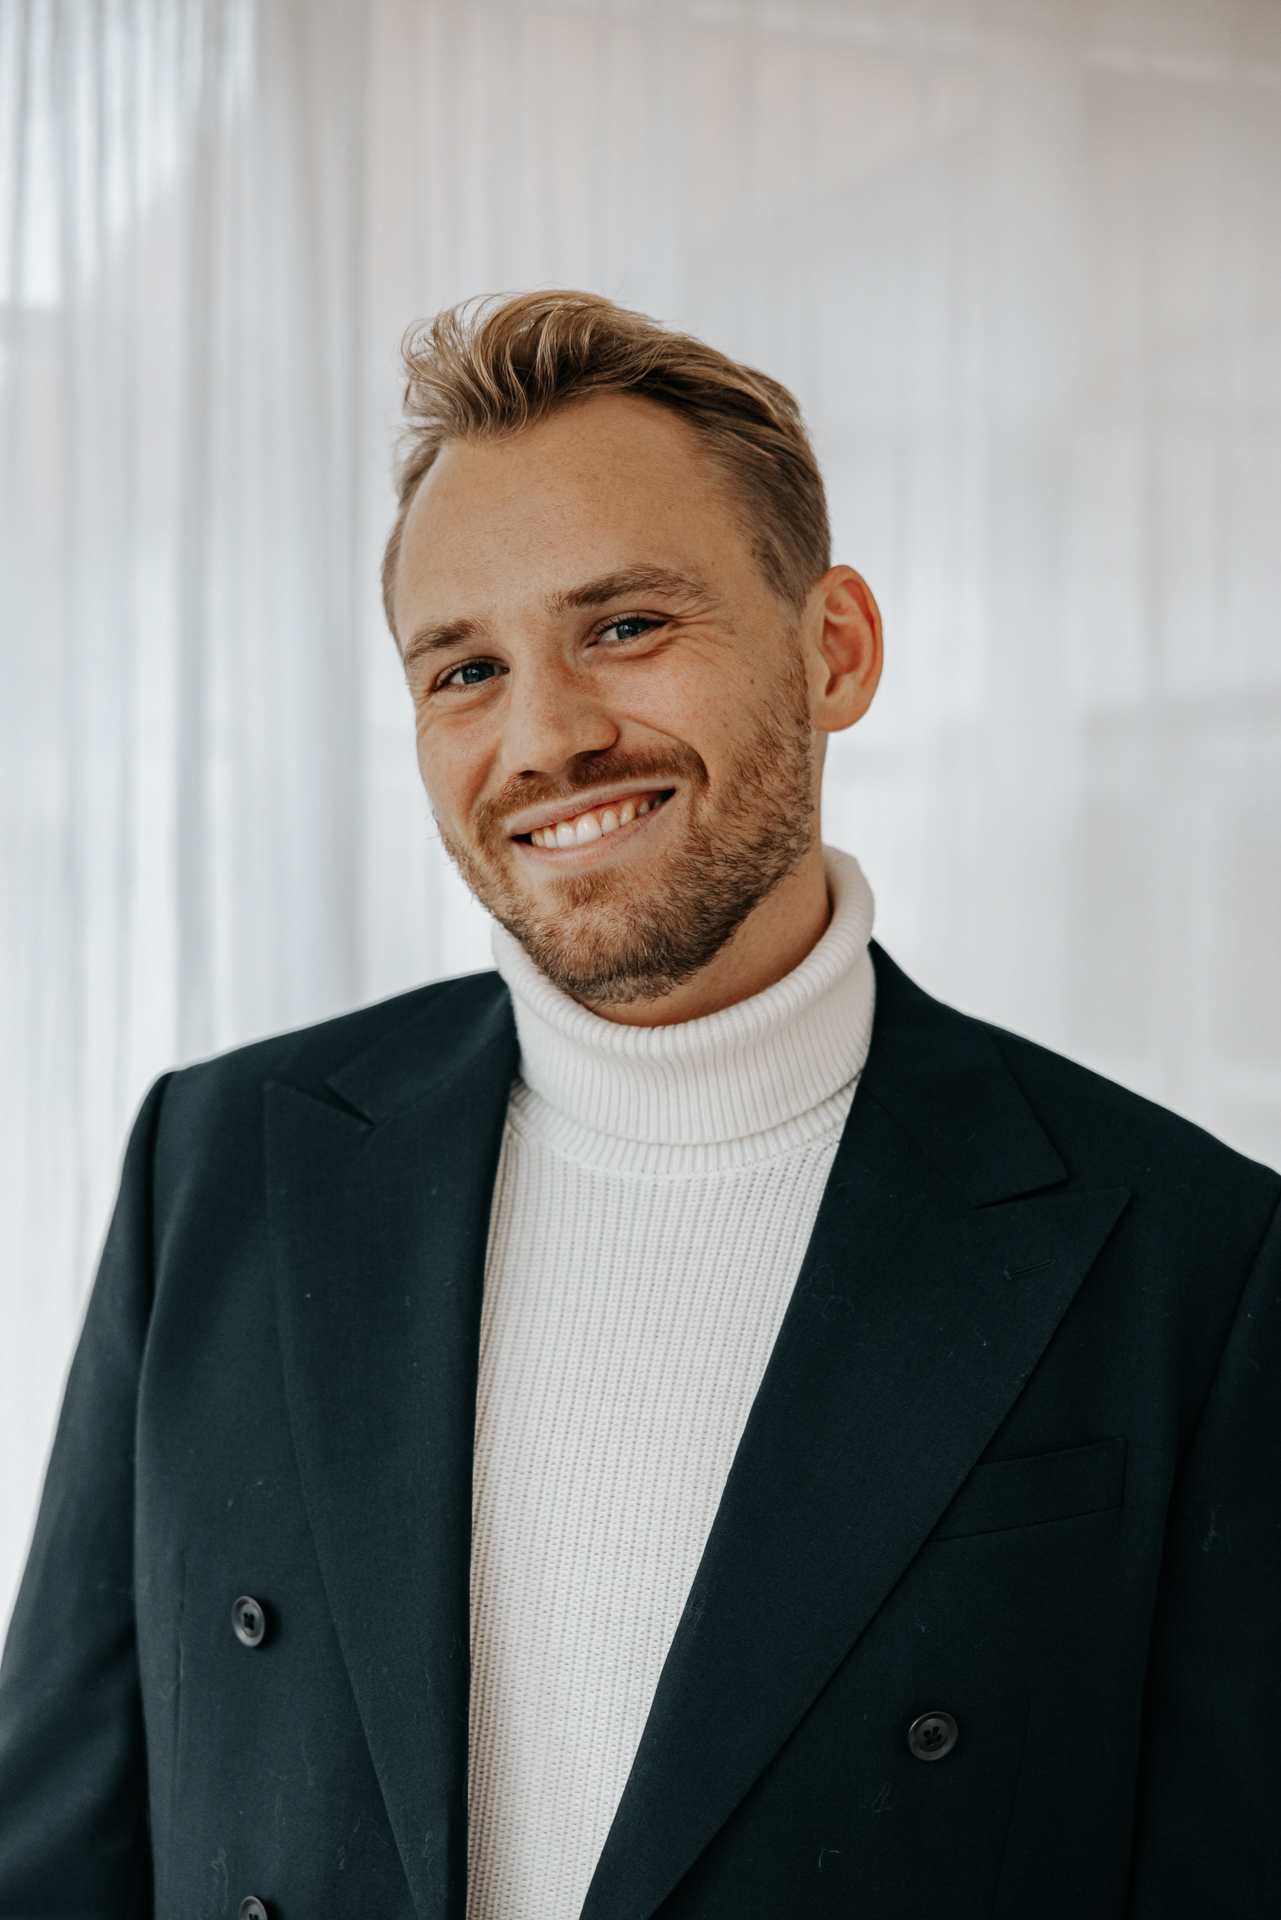
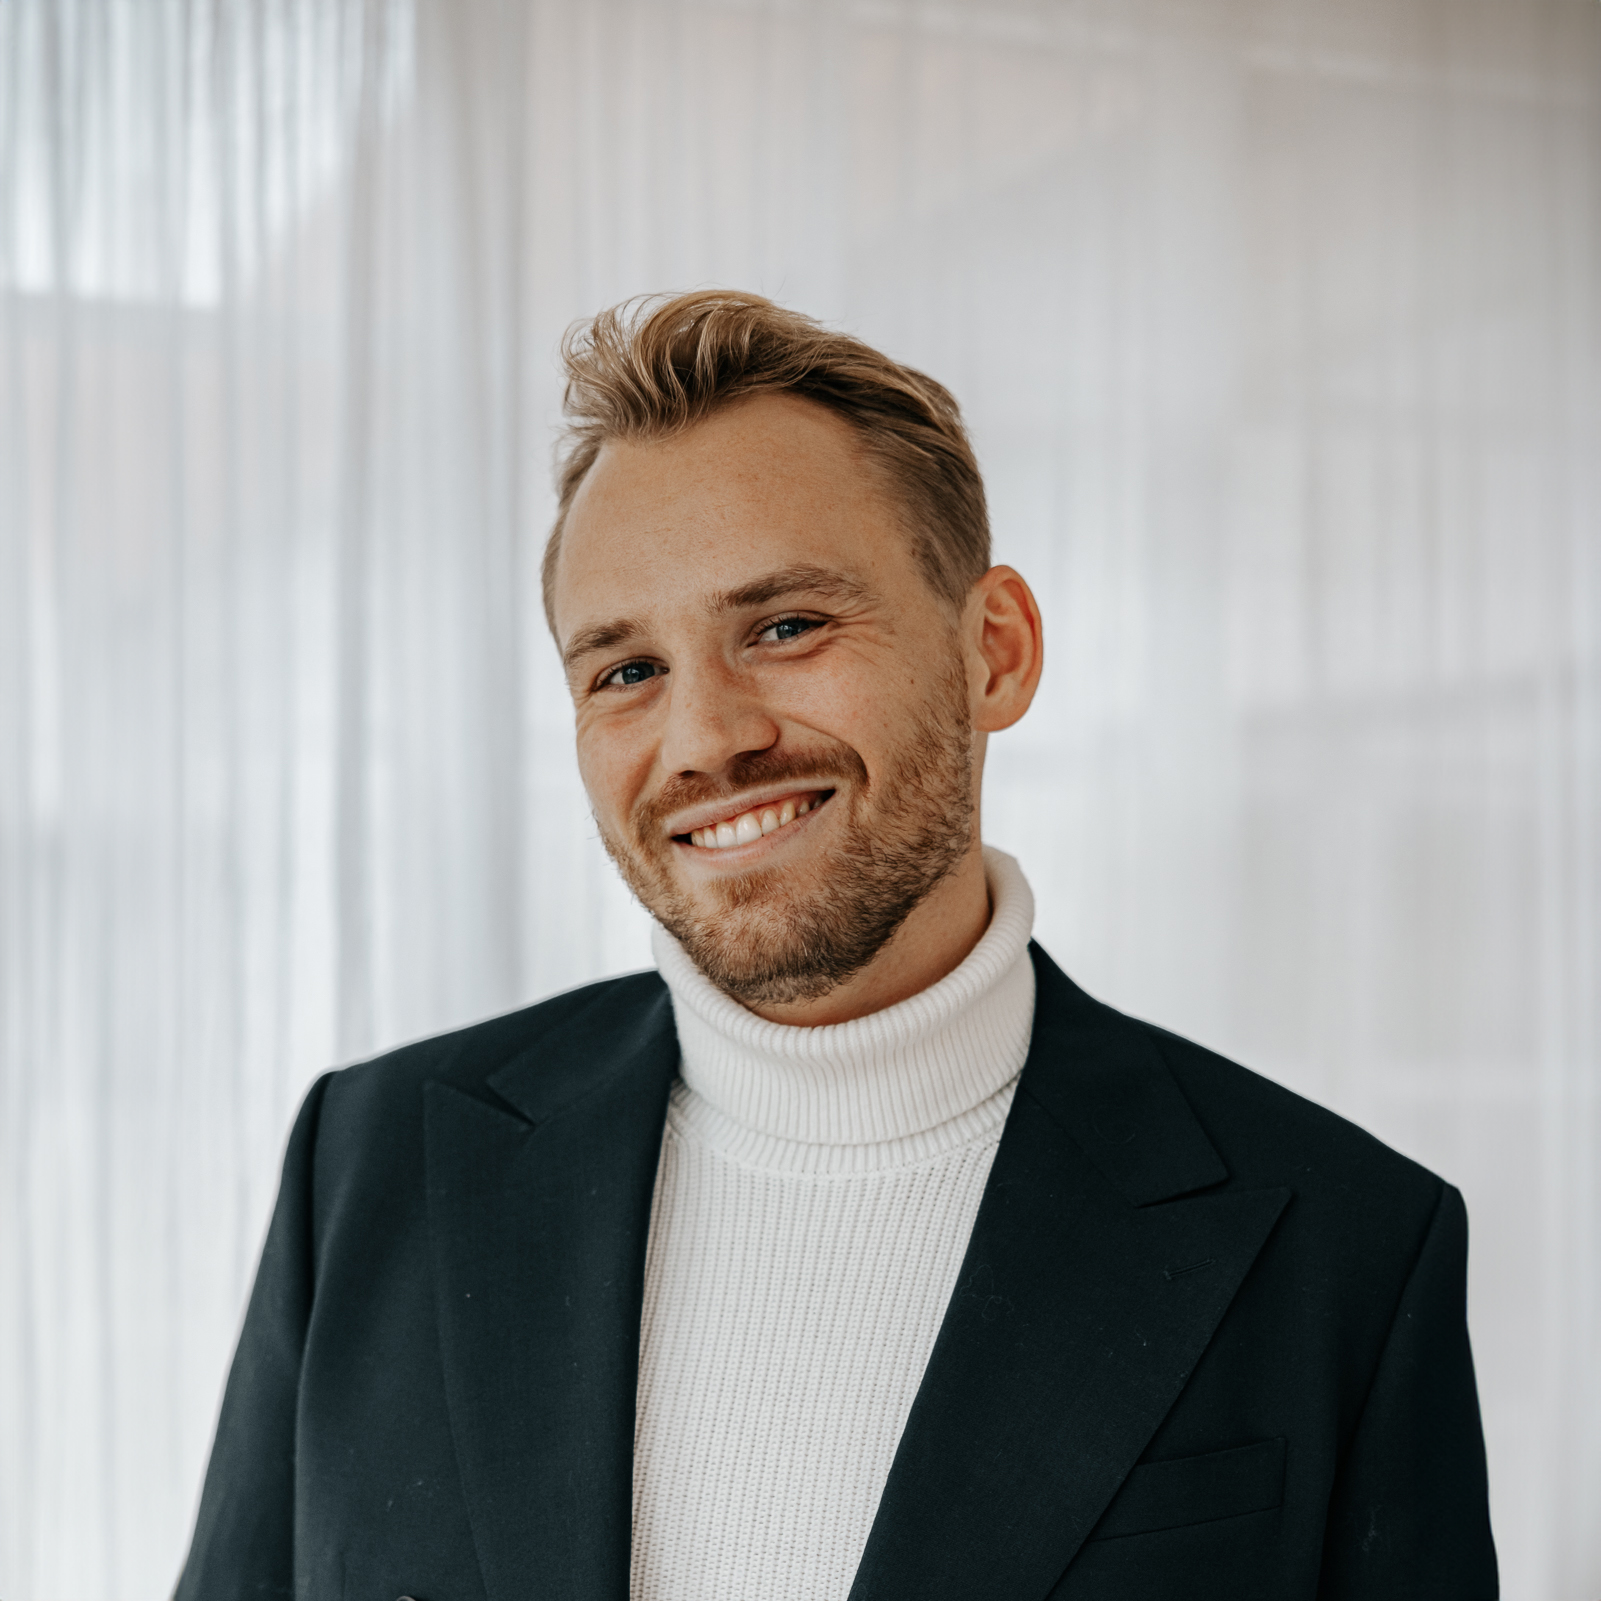
Update design and function

diff --git a/styles.css b/styles.css
@@ -4,7 +4,6 @@ body {
     margin: 0;
     padding: 0;
 }
-
 header {
     display: flex;
     padding: 24px 42px;
@@ -13,17 +12,56 @@ header {
     align-content: center;
     align-self: stretch;
     flex-wrap: wrap;
-    font-family:Impact, Haettenschweiler, 'Arial Narrow Bold', sans-serif ;
-    font-weight: 300;
+    font-family: "futura-pt", sans-serif;
+    font-weight: 800;
+    font-style:normal;
 }
+#headerBtn{
+    display: flex;
+    background: none;
+	color: inherit;
+	border: none;
+	padding: 0;
+	font: inherit;
+	cursor: pointer;
+	outline: inherit;
+}
+
 #headBtn{
 color: var(--Black, #2D2D2D);
 /* Body text */
-font-family: Impact, Haettenschweiler, 'Arial Narrow Bold', sans-serif;
 font-size: 17px;
 font-style: normal;
 font-weight: 400;
+transition: 0.3s;
+background: none;
+color: inherit;
+border: none;
+padding: 0;
+font: inherit;
+cursor: pointer;
+outline: inherit;
+transition: .3s;
 }
+}
+#secodaryBtn{
+    background: none;
+	color: inherit;
+	border: none;
+	padding: 0;
+	font: inherit;
+	cursor: pointer;
+	outline: inherit;
+    transition: .3s;
+}
+#secodaryBtn:hover {
+font-size: larger;
+}
+
+#headBtn:hover{
+font-size: 18px;
+}
+
 main1{
     display: flex;
     padding: 42px 24px;
@@ -33,15 +71,97 @@ main1{
     gap: 0px 68px;
     align-self: stretch;
     flex-wrap: wrap;
+    align-items: flex-end;
 }
 img{
 opacity: 60%;
 max-width: 500px;
 max-height: 500px;
 }
-mainDiv{
-    padding: 100px;
-    border: dotted 1px;
-    max-width: 500px;
-    max-height: 500px;
+
+#mainDiv{
+
+    display: flex;
+padding: 42px 24px;
+justify-content: center;
+align-items: center;
+align-content: center;
+gap: 0px 68px;
+align-self: stretch;
+flex-wrap:nowrap;
+flex-direction: row;
 }
+contentDiv{
+    max-width: 200px;
+}
+
+#mainHead{
+font-size: 20px;
+font-style: normal;
+font-weight: 600;
+line-height: 30px; /* 150% */
+}
+#mainHead2{
+font-size: 68px;
+font-style: normal;
+font-weight: 600;
+line-height: normal;
+}
+#mainHead3{
+    font-size: 17px;
+font-style: normal;
+font-weight: 400;
+line-height: 27px; /* 158.824% */
+    max-width: 800px;
+}
+
+#mainDivBtn {
+    appearance: none;
+    background-color: transparent;
+    border: 0.125em solid #1A1A1A;
+    border-radius: 0.9375em;
+    box-sizing: border-box;
+    color: #3B3B3B;
+    cursor: pointer;
+    display: inline-block;
+    font-family: Roobert,-apple-system,BlinkMacSystemFont,"Segoe UI",Helvetica,Arial,sans-serif,"Apple Color Emoji","Segoe UI Emoji","Segoe UI Symbol";
+    font-size: 16px;
+    font-weight: 600;
+    line-height: normal;
+    margin: 0;
+    min-height: 3.75em;
+    min-width: 0;
+    outline: none;
+    padding: 1em 2.3em;
+    text-align: center;
+    text-decoration: none;
+    transition: all 300ms cubic-bezier(.23, 1, 0.32, 1);
+    user-select: none;
+    -webkit-user-select: none;
+    touch-action: manipulation;
+    will-change: transform;
+   }
+   
+   #mainDivBtn:disabled {
+    pointer-events: none;
+   }
+   
+   #mainDivBtn:hover {
+    color: #fff;
+    background-color: #1A1A1A;
+    box-shadow: rgba(0, 0, 0, 0.25) 0 8px 15px;
+    transform: translateY(-2px);
+   }
+   
+   #mainDivBtn:active {
+    box-shadow: none;
+    transform: translateY(0);
+   }
+   #logoBar{
+    display: flex;
+padding: 42px 68px;
+justify-content: center;
+align-items: center;
+gap: 10px;
+flex: 1 0 0;
+   }

diff --git a/index.html b/index.html
@@ -2,27 +2,54 @@
 <html lang="en">
 
 <head>
+    <!-- Google Tag Manager -->
+<script>(function(w,d,s,l,i){w[l]=w[l]||[];w[l].push({'gtm.start':
+    new Date().getTime(),event:'gtm.js'});var f=d.getElementsByTagName(s)[0],
+    j=d.createElement(s),dl=l!='dataLayer'?'&l='+l:'';j.async=true;j.src=
+    'https://www.googletagmanager.com/gtm.js?id='+i+dl;f.parentNode.insertBefore(j,f);
+    })(window,document,'script','dataLayer','GTM-MZNGMKC4');</script>
+    <!-- End Google Tag Manager -->
+
     <meta charset="UTF-8">
     <meta name="viewport" content="width=device-width, initial-scale=1.0">
     <title>Simon Jeppsson´s portfolio</title>
     <link rel="stylesheet" href="styles.css">
+    <link rel="stylesheet" href="https://use.typekit.net/cew2yro.css">
+    <link rel="stylesheet" href="https://use.typekit.net/cew2yro.css">
+
+    
 </head>
 
 <body>
+    <!-- Google Tag Manager (noscript) -->
+<noscript><iframe src="https://www.googletagmanager.com/ns.html?id=GTM-MZNGMKC4"
+height="0" width="0" style="display:none;visibility:hidden"></iframe></noscript>
+<!-- End Google Tag Manager (noscript) -->
+
     <header>
-        <h1>Simon Jeppsson</h1>
-        <h2 id="headBtn">About me</h2>
+        <button id="headerBtn">Simon Jeppsson</button>
+        <button id="mainDivBtn" href = "mailto: simon1jeppsson@gmail.com">Contact</button>
     </header>
     <main1> 
-        <mainDiv>
-            <mainHead>Ux-Designer</mainHead>
-            <
-
-        </mainDiv>
-        <picDiv><img src="Media/231028_simon_jeppsson_0006.jpg" alt="Portrait">
-        </picDiv>
+       
+            <div id="mainDiv">
+            <div id="contentDiv">
+            <p id="mainHead">Illustrations | Reaserch | Programming | GUI | Interactivity  </p>
+            <p id="mainHead2">UX-Designer</p>
+            <p id="mainHead3">Hello, I'm Simon Jeppsson, a  UX designer currently studying at Malmö University. With a professional background in sales, I bring a unique perspective to my design approach, driven by a passion for ensuring that products not only meet user needs but also contribute to the overall profitability of a company. My focus lies in making things work seamlessly for customers, ultimately aiming to enhance user experiences and boost the success of businesses.</p>
+            <button id="mainDivBtn" href = "mailto: simon1jeppsson@gmail.com">Lets talk!</button>
+            </div>
+            <picDiv><img src="Media/231028_simon_jeppsson_0005.jpg" alt="Portrait">
+            </picDiv>
+        </div>
     </main1>
+
+    <div id="logoBar">
+        <logo1><img src="Media/MAU_SV_hori_BLACK.png" alt="Portrait">
+        </logo1>
+    </div>
     
+    <div id="projectDiv"></div>
 
 </body>
 

diff --git a/About me.html b/About me.html
@@ -1,0 +1,33 @@
+<!DOCTYPE html>
+<html lang="en">
+
+<head>
+    <meta charset="UTF-8">
+    <meta name="viewport" content="width=device-width, initial-scale=1.0">
+    <title>Simon Jeppsson´s portfolio</title>
+    <link rel="stylesheet" href="styles.css">
+    <link rel="stylesheet" href="https://use.typekit.net/cew2yro.css">
+    <link rel="stylesheet" href="https://use.typekit.net/cew2yro.css">
+
+    
+</head>
+
+<body>
+    <header>
+        <h1 onclick="index.href = 'www.Simonjeppsson.com';" >Simon Jeppsson</h1>
+        <h2 id="headBtn">About me</h2>
+    </header>
+    <main1> 
+        <mainDiv>
+            <mainHead>Ux-Designer</mainHead>
+            <btnDiv id="secodaryBtn">Contact</btnDiv>
+
+        </mainDiv>
+        <picDiv><img src="Media/231028_simon_jeppsson_0005.jpg" alt="Portrait">
+        </picDiv>
+    </main1>
+    
+
+</body>
+
+</html>

diff --git a/contact.html b/contact.html
@@ -1,0 +1,33 @@
+<!DOCTYPE html>
+<html lang="en">
+
+<head>
+    <meta charset="UTF-8">
+    <meta name="viewport" content="width=device-width, initial-scale=1.0">
+    <title>Simon Jeppsson´s portfolio</title>
+    <link rel="stylesheet" href="styles.css">
+    <link rel="stylesheet" href="https://use.typekit.net/cew2yro.css">
+    <link rel="stylesheet" href="https://use.typekit.net/cew2yro.css">
+
+    
+</head>
+
+<body>
+    <header>
+        <h1 href="index.html" onclick="redirectToIndex()"" >Simon Jeppsson</h1>
+        <h2 id="headBtn">About me</h2>
+    </header>
+    <main1> 
+        <mainDiv>
+            <mainHead>Ux-Designer</mainHead>
+            <button id="secodaryBtn">Contact</button>
+
+        </mainDiv>
+        <picDiv><img src="Media/231028_simon_jeppsson_0005.jpg" alt="Portrait">
+        </picDiv>
+    </main1>
+    
+
+</body>
+
+</html>
